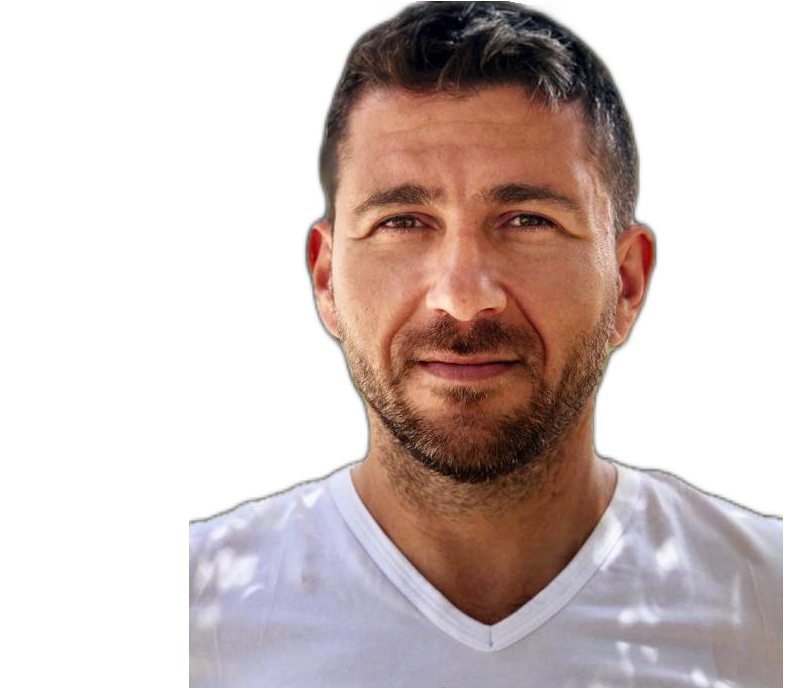
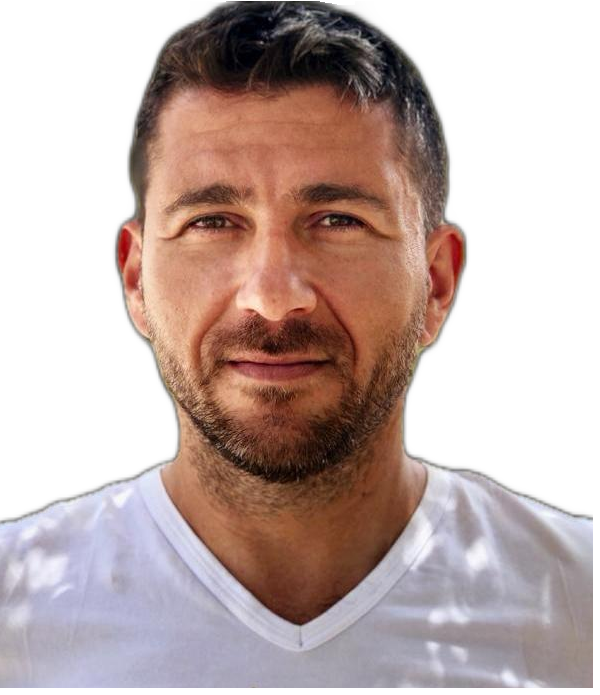
#fix about page picture alignment. #create-issue suggestion to make the about image' class customizable via custom.css file and parameters in configuration

diff --git a/layouts/partials/about.html b/layouts/partials/about.html
@@ -1,0 +1,77 @@
+{{- $contextType := printf "%T" . -}}
+{{- $isShortcode := (eq $contextType "*hugolib.ShortcodeWithPage") -}}
+
+{{/* ---------------------------------------------------------------------------
+     TITLE AND CONTENT
+     --------------------------------------------------------------------------- */}}
+{{- $title := "" -}}
+{{- $content := "" -}}
+
+{{- if $isShortcode }}
+  {{- $title = .Get "title" | default ( i18n "about_title" ) -}}
+  {{- $content = .Get "content" | default ( i18n "about_content" ) | safeHTML -}}
+{{ else }}
+  {{- $title = i18n "about_title" -}}
+  {{- $content = i18n "about_content" | safeHTML -}}
+{{ end }}
+
+{{/* ---------------------------------------------------------------------------
+     IMAGES
+     --------------------------------------------------------------------------- */}}
+{{- $imgSrc := "" -}}
+{{- $imgWidth := 0 -}}
+{{- $imgHeight := 0 -}}
+{{- $imgScale := 0.5 -}}
+{{- $imgClass := "image-align-right" -}}
+
+{{- if $isShortcode }}
+  {{- $imgSrc = .Get "imgSrc" | default .Site.Data.homepage.about.image.src -}}
+  {{- $imgWidth = .Get "imgWidth" | default .Site.Data.homepage.about.image.width -}}
+  {{- $imgHeight = .Get "imgHeight" | default .Site.Data.homepage.about.image.height -}}
+  {{- $imgScale = .Get "imgScale" | default .Site.Data.homepage.about.image.scale -}}
+{{ else }}
+  {{- $imgSrc = .Site.Data.homepage.about.image.src -}}
+  {{- $imgWidth = .Site.Data.homepage.about.image.width -}}
+  {{- $imgHeight = .Site.Data.homepage.about.image.height -}}
+  {{- $imgScale = .Site.Data.homepage.about.image.scale -}}
+{{ end }}
+
+{{/* ---------------------------------------------------------------------------
+     BUTTON
+     --------------------------------------------------------------------------- */}}
+{{- $btnURL := "" -}}
+{{- $btnIcon := "" -}}
+{{- $btnText := "" -}}
+
+{{- if $isShortcode }}
+  {{- $btnURL = .Get "button_url" | default .Site.Data.homepage.about.button.URL -}}
+  {{- $btnIcon = .Get "button_icon" | default .Site.Data.homepage.about.button.icon -}}
+  {{- $btnText = .Get "button_text" | default false -}}
+{{ else }}
+  {{- $btnURL = .Site.Data.homepage.about.button.URL -}}
+  {{- $btnIcon = .Site.Data.homepage.about.button.icon -}}
+  {{- $btnText = i18n "about_button" -}}
+{{ end }}
+
+
+<section id="about" class="section rad-animation-group pb-0">
+  <div class="container rad-fade-down">
+    <div class="row d-flex flex-column-reverse flex-md-row">
+      <div class="about__profile-picture col-12 col-md-6">
+        {{ partial "lazypicture" (dict "src" $imgSrc "width" $imgWidth "height" $imgHeight "scale" $imgScale "class" $imgClass)}}
+      </div>
+      <div class="col-12 col-md-6 my-auto my-auto">
+        <h2>{{ $title }}</h2>
+        <div class="about-me content lead">
+          {{ $content }}
+        </div>
+        {{ if $btnText }}
+          <a href="{{ $btnURL | absURL }}" target="_blank" class="btn btn-primary">
+            <i class="{{ $btnIcon }}"></i>
+            {{ $btnText }}
+          </a>
+        {{ end }}
+      </div>
+    </div>
+  </div>
+</section>

diff --git a/assets/css/custom.css b/assets/css/custom.css
@@ -12,3 +12,9 @@
     align-items: flex-start;
     flex-direction: row
 }
+
+.section div[class*="col-"] img.image-align-right {
+    display: block;
+    margin-left: auto;
+    margin-right: 20px;
+}

diff --git a/content/home/home.md b/content/home/home.md
@@ -11,7 +11,7 @@ draft = false
     buttonText="Email"
     description="As a Lead Software Architect with a passion for transformative technologies, I specialize in creating scalable, resilient systems that solve real business challenges.<br/>My approach combines technical expertise with strategic vision - designing solutions that not only meet current demands but anticipate future needs. From cloud migrations to AI integration, I've guided organizations through their most complex technical evolutions.<br/>My portfolio showcases enterprise-scale projects across hybrid environments, demonstrating how thoughtful architecture can unlock new possibilities.<br/>I believe great systems aren't just built, they're carefully crafted through collaboration, insight, and forward thinking."
     imgSrc="images/showcase/landing-page-1.png"
-    imgScale="0.2"
+    imgScale="0.15"
  >}}
 
 {{< platform-links >}}
@@ -30,7 +30,7 @@ draft = false
     button_text="LinkedIn"
     button_url="https://www.linkedin.com/in/gleb-gotgelf/"
     imgSrc="images/about/my-user-picture.png"
-    imgScale="0.7"
+    imgScale="0.5"
  >}}
 
 {{< client-and-work-section
